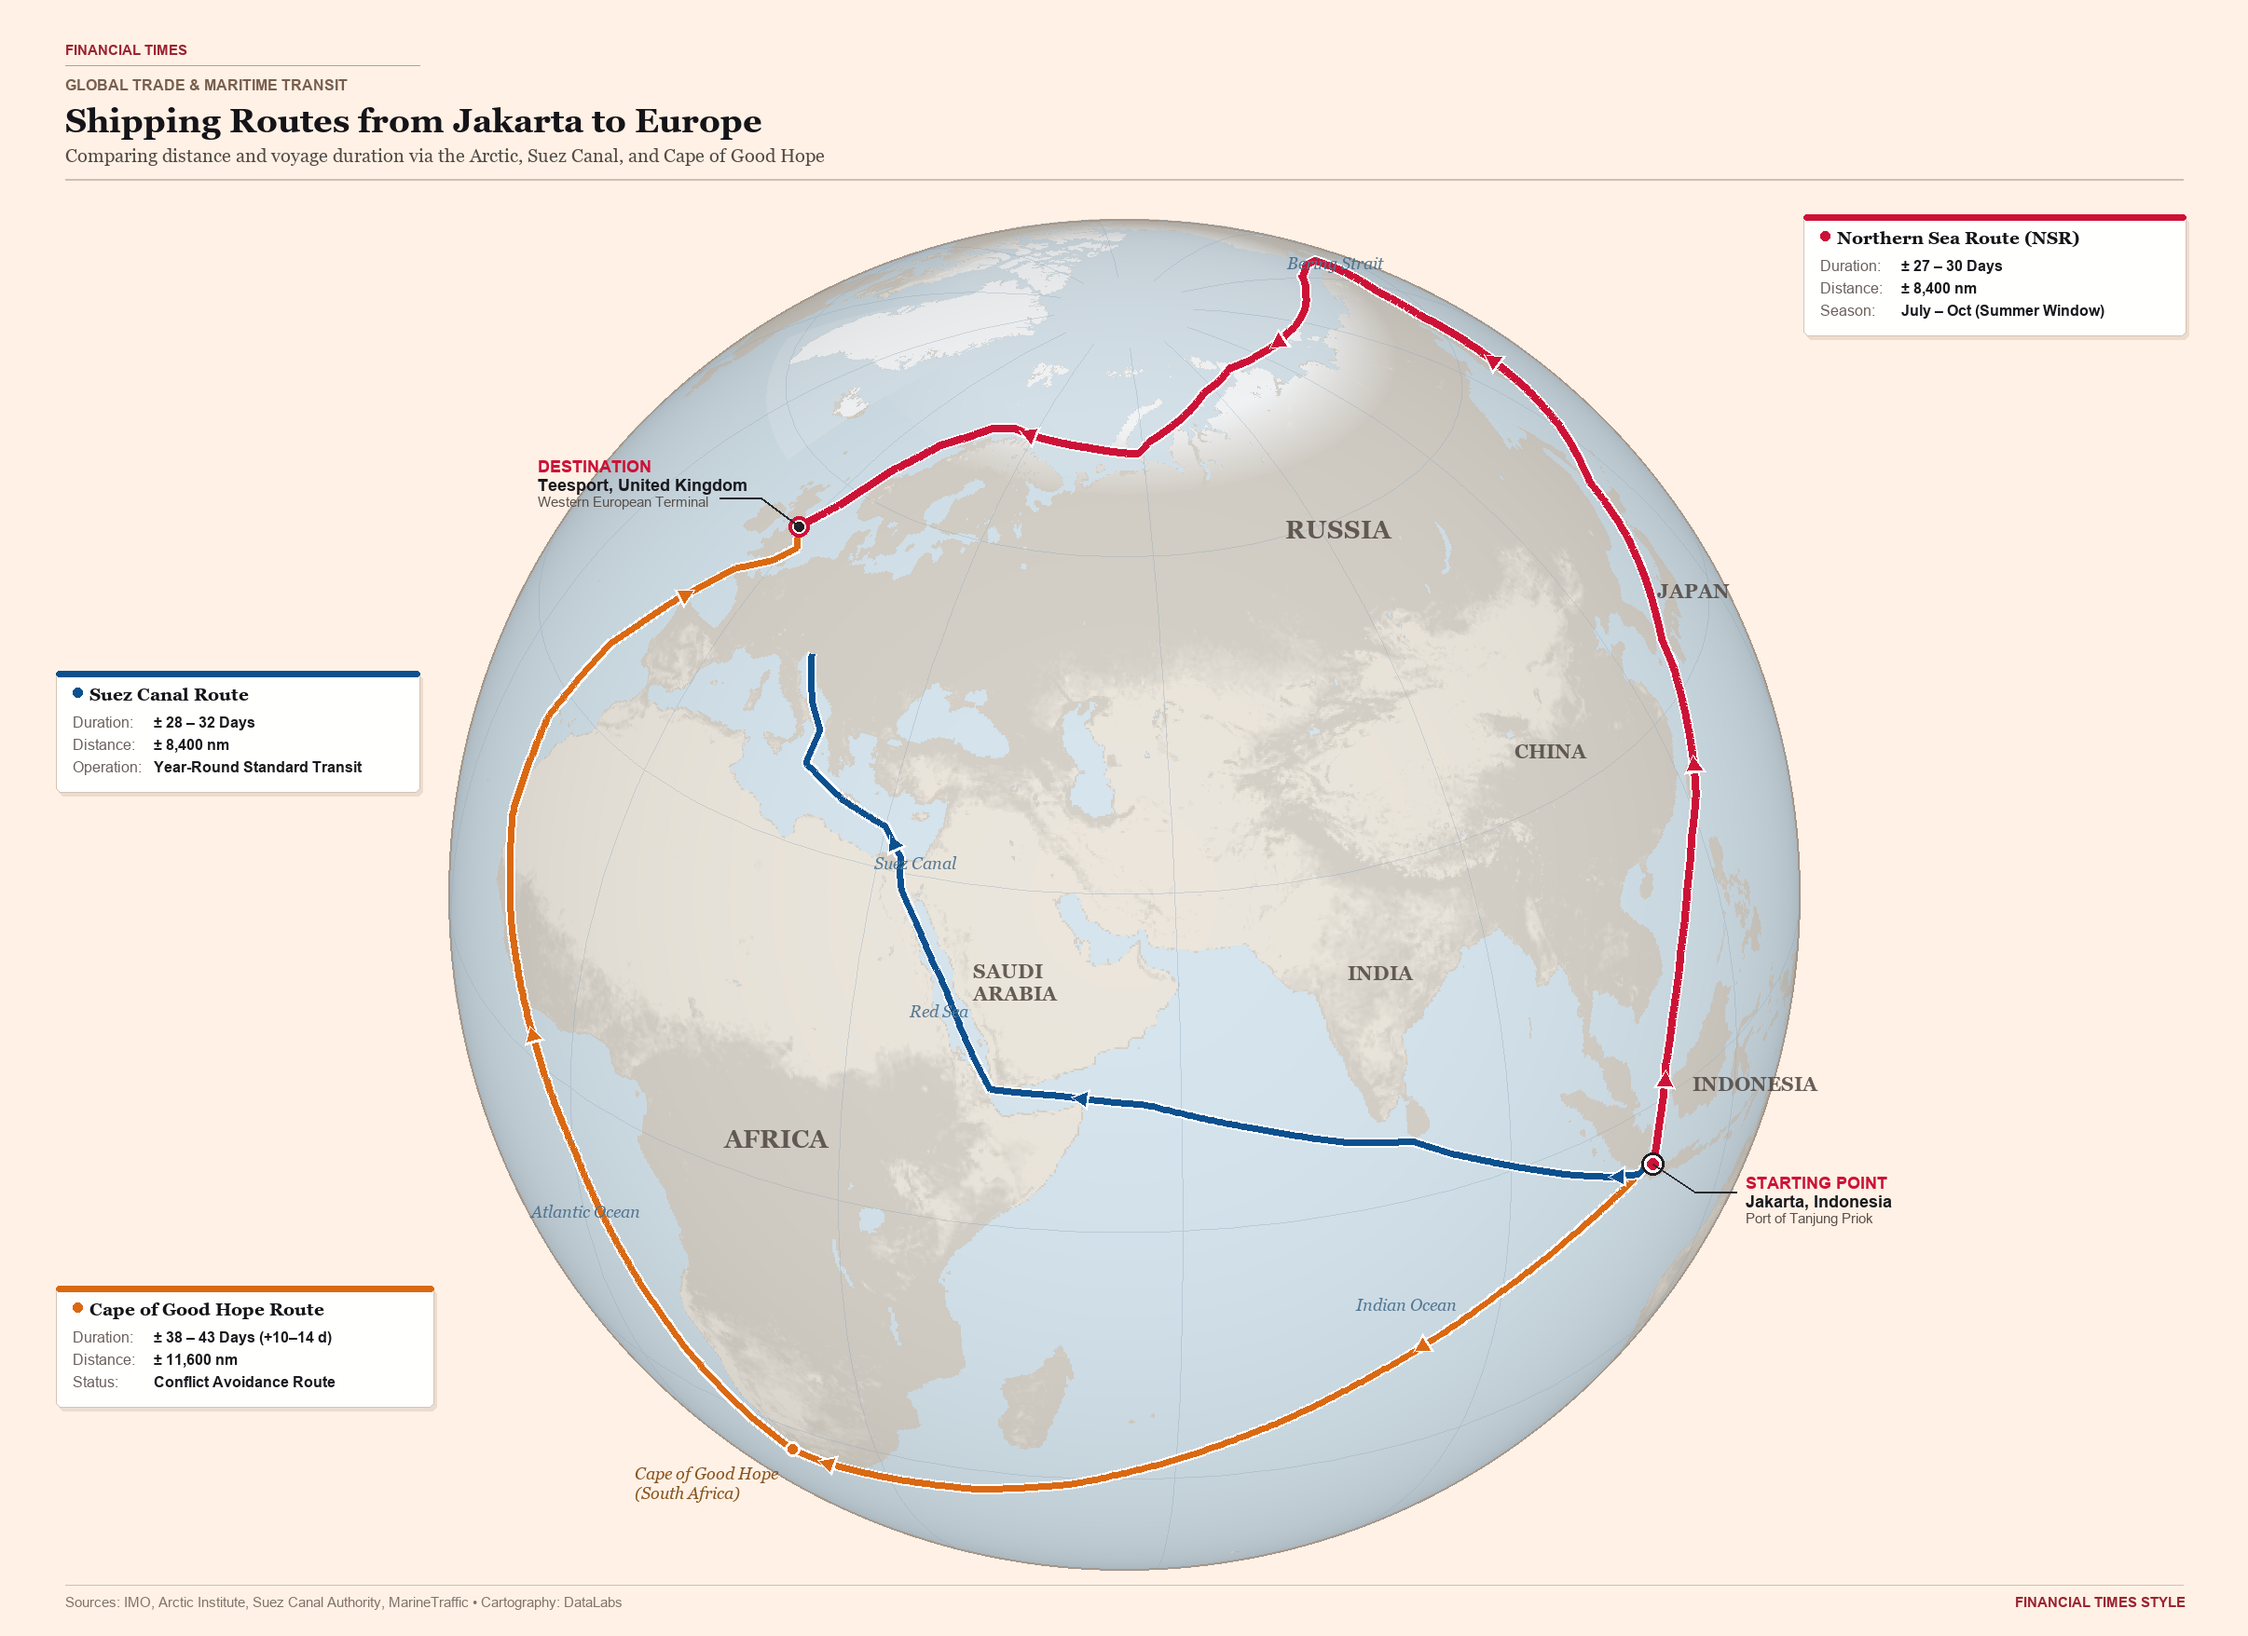
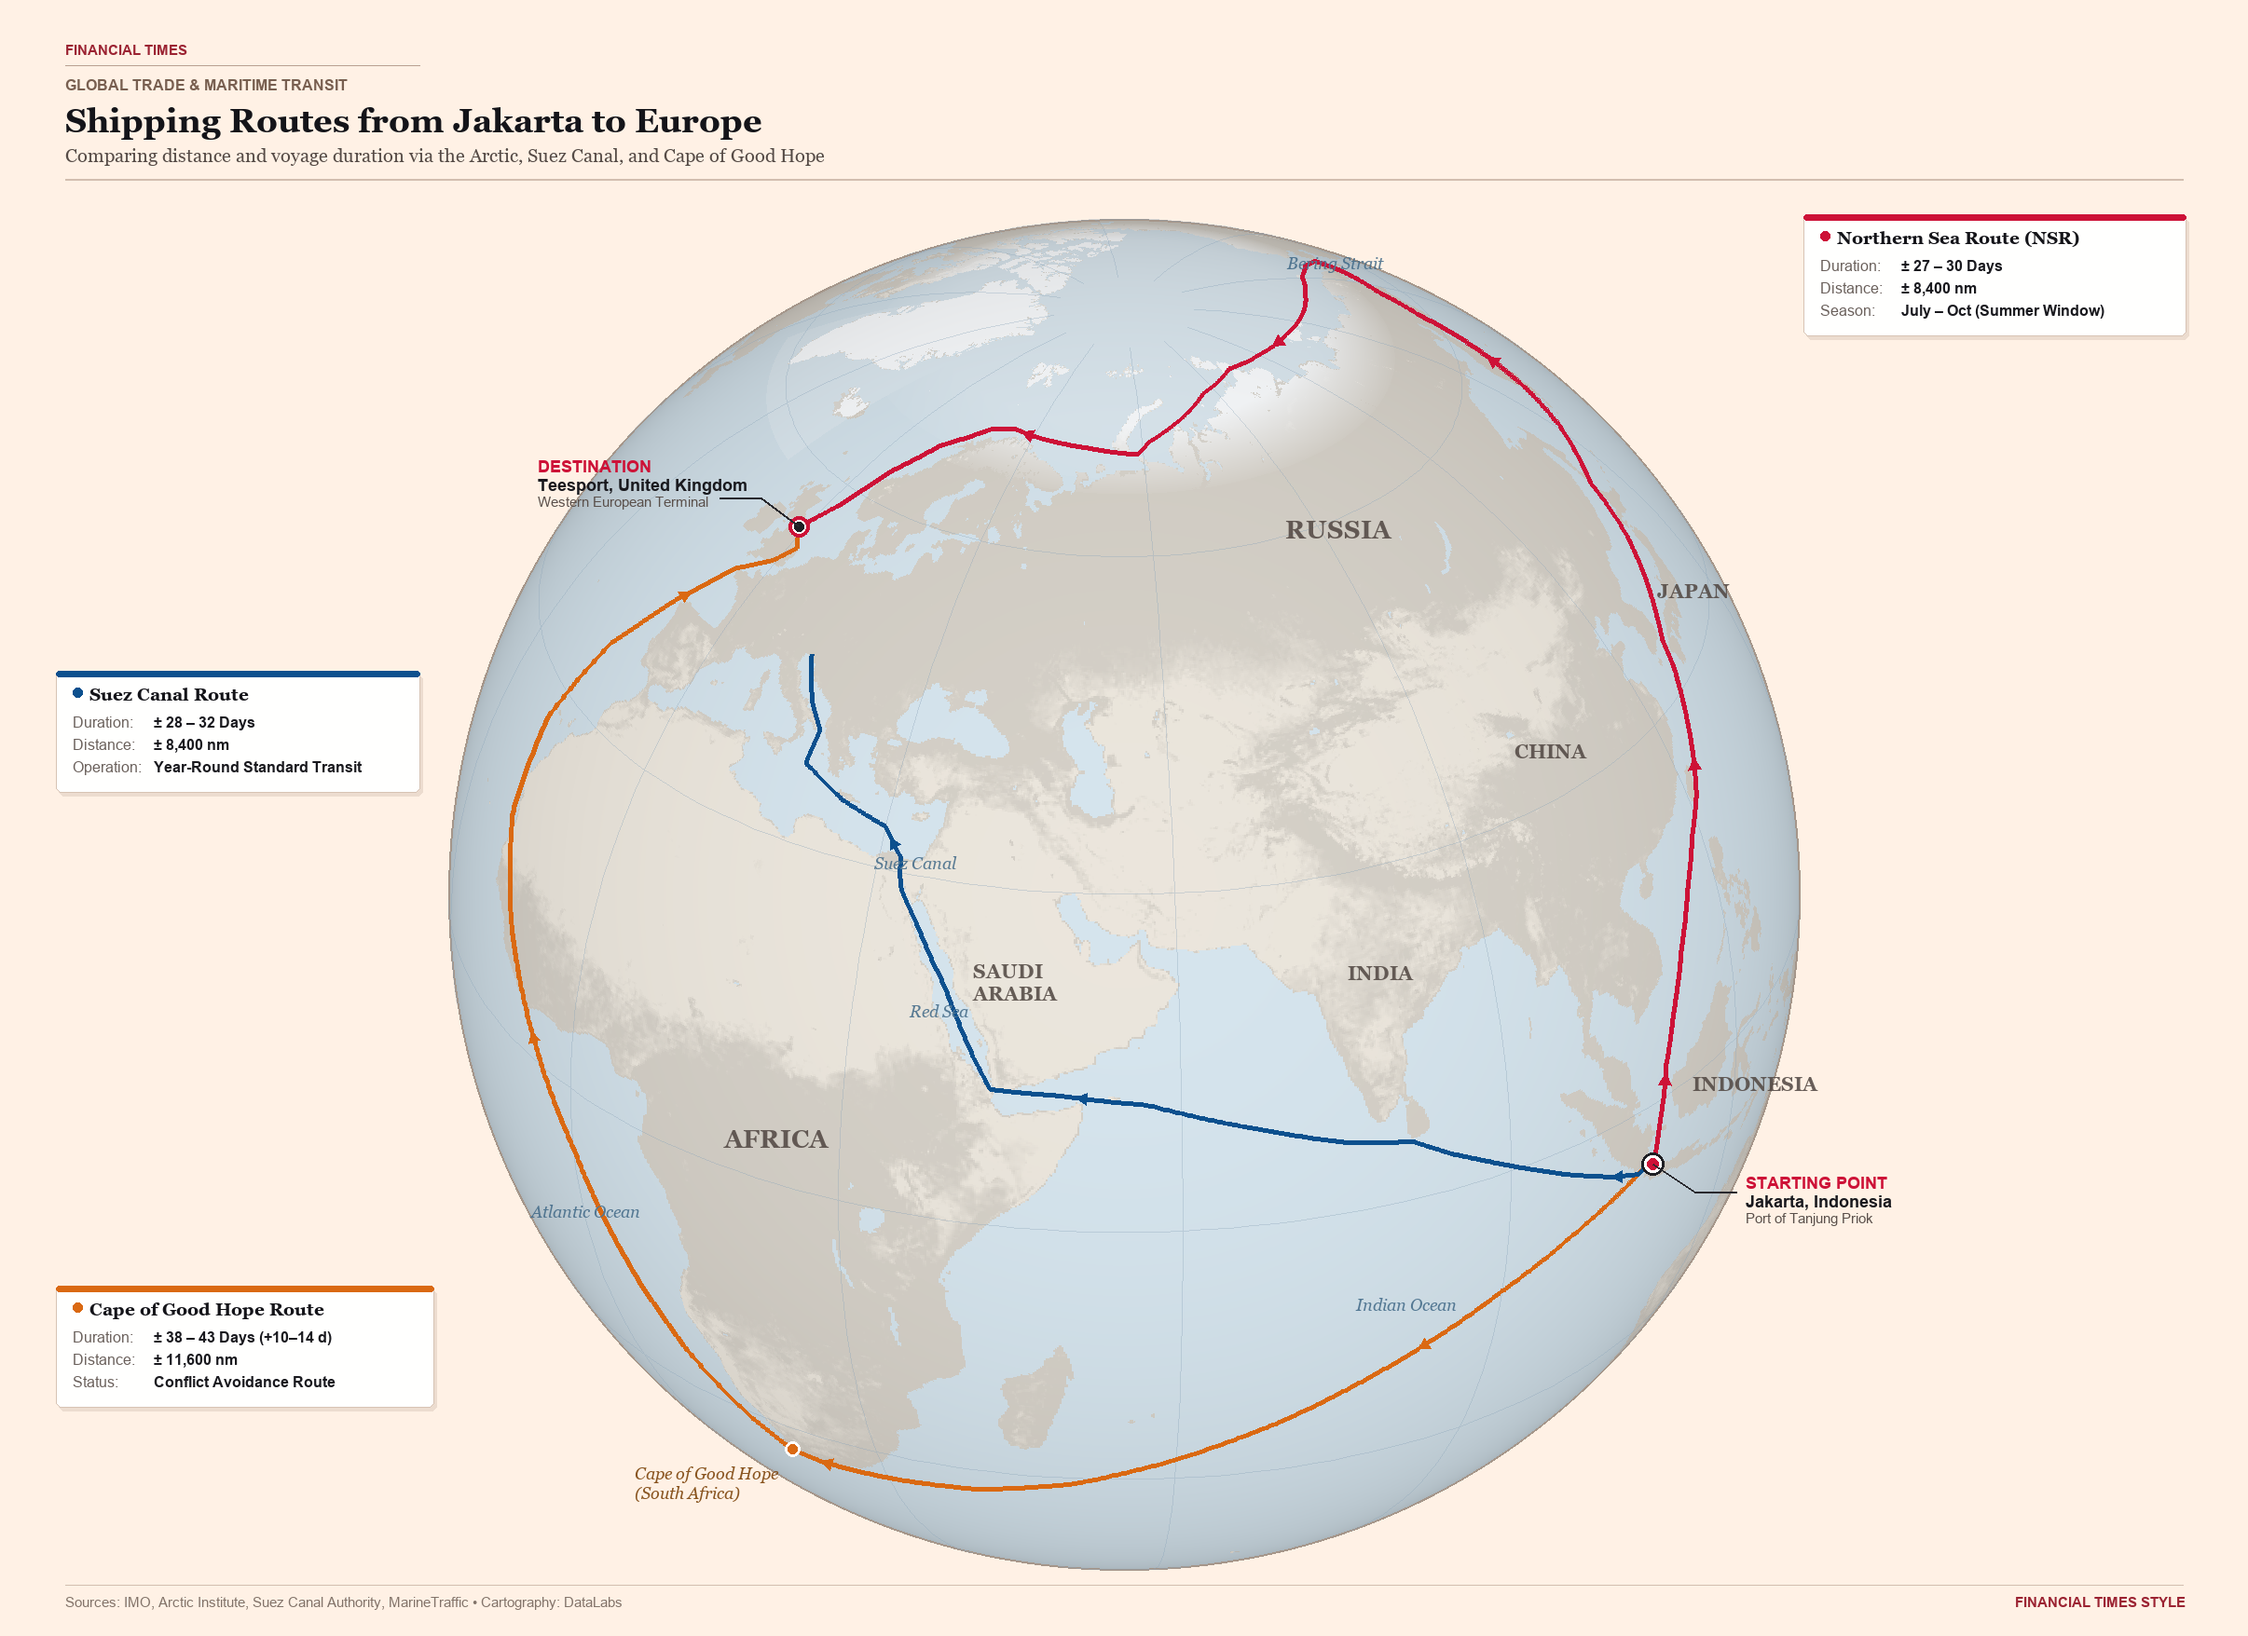
style: remove halo glow and casing/effects from route lines for pure flat vector rendering

diff --git a/build_map_ft.py b/build_map_ft.py
@@ -137,21 +137,7 @@ canvas[disk_mask] = ft_texture[disk_mask]
 
 base_img = Image.fromarray(np.clip(canvas, 0, 255).astype(np.uint8), mode="RGB")
 
-# 2B. Globe Outer Border and Subtle Shadow (FT Clean Graphic Look)
-# Create a soft drop shadow under the globe
-shadow_img = Image.new("RGBA", (WIDTH, HEIGHT), (0, 0, 0, 0))
-shadow_draw = ImageDraw.Draw(shadow_img)
-shadow_draw.ellipse([CX - RADIUS + 4, CY - RADIUS + 8, CX + RADIUS + 4, CY + RADIUS + 8],
-                    fill=(180, 160, 145, 100))
-shadow_blurred = shadow_img.filter(ImageFilter.GaussianBlur(14))
-
-# Composite shadow with background
-bg_full = Image.new("RGBA", (WIDTH, HEIGHT), (255, 241, 229, 255))
-bg_full.paste(shadow_blurred, (0, 0), shadow_blurred)
-bg_full.paste(base_img, (0, 0))
-base_img = bg_full.convert("RGB")
-
-# Crisp globe outer rim
+# 2B. Crisp globe outer rim (No shadow or halo effects)
 rim_draw = ImageDraw.Draw(base_img)
 rim_draw.ellipse([CX - RADIUS, CY - RADIUS, CX + RADIUS, CY + RADIUS],
                  outline=(165, 150, 138), width=2)
@@ -245,27 +231,19 @@ FT_RED = (205, 18, 55, 255)       # Solid FT Claret / Crimson for Northern Sea R
 FT_NAVY = (12, 80, 142, 255)      # Solid FT Deep Blue for Suez Route
 FT_AMBER = (218, 105, 18, 255)    # Solid FT Burnt Ochre/Amber for Cape Route
 
-# Draw solid routes with crisp opaque white casing underneath for maximum contrast and solidity
-def draw_cased_route(px_list, color, width=7, casing_width=11):
-    if len(px_list) < 2:
-        return
-    # Continuous opaque white casing
-    draw.line(px_list, fill=(255, 255, 255, 255), width=casing_width, joint="curve")
-    # Continuous solid core line
-    draw.line(px_list, fill=color, width=width, joint="curve")
+# Flat solid route lines (No glow, no casing, no effects)
+ROUTE_WIDTH = 5
+draw.line(cape_px, fill=FT_AMBER, width=ROUTE_WIDTH, joint="curve")
+draw.line(suez_px, fill=FT_NAVY, width=ROUTE_WIDTH, joint="curve")
+draw.line(nsr_px, fill=FT_RED, width=ROUTE_WIDTH, joint="curve")
 
-# Draw in order: Cape -> Suez -> Northern Sea Route (NSR on top)
-draw_cased_route(cape_px, FT_AMBER, width=7, casing_width=11)
-draw_cased_route(suez_px, FT_NAVY, width=7, casing_width=11)
-draw_cased_route(nsr_px, FT_RED, width=8, casing_width=12)
-
-# Directional arrows helper with solid contrast backing
-def draw_arrows(px_list, color, fractions, size=15):
+# Clean directional arrows helper without backing or outlines
+def draw_arrows(px_list, color, fractions, size=13):
     for f in fractions:
         idx = int(len(px_list) * f)
-        if idx < len(px_list) - 6:
+        if idx < len(px_list) - 5:
             p1 = px_list[idx]
-            p2 = px_list[idx + 6]
+            p2 = px_list[idx + 5]
             dx = p2[0] - p1[0]
             dy = p2[1] - p1[1]
             dist = math.hypot(dx, dy)
@@ -275,17 +253,11 @@ def draw_arrows(px_list, color, fractions, size=15):
                 tip = p2
                 left_w = (tip[0] - size * ux + size * 0.55 * vx, tip[1] - size * uy + size * 0.55 * vy)
                 right_w = (tip[0] - size * ux - size * 0.55 * vx, tip[1] - size * uy - size * 0.55 * vy)
-                
-                # Solid white backing for the arrowhead
-                b_tip = (tip[0] + 2.0 * ux, tip[1] + 2.0 * uy)
-                b_left = (tip[0] - (size + 3) * ux + (size + 3) * 0.65 * vx, tip[1] - (size + 3) * uy + (size + 3) * 0.65 * vy)
-                b_right = (tip[0] - (size + 3) * ux - (size + 3) * 0.65 * vx, tip[1] - (size + 3) * uy - (size + 3) * 0.65 * vy)
-                draw.polygon([b_tip, b_left, b_right], fill=(255, 255, 255, 255))
                 draw.polygon([tip, left_w, right_w], fill=color)
 
-draw_arrows(nsr_px, FT_RED, [0.08, 0.22, 0.48, 0.70, 0.88], size=15)
-draw_arrows(suez_px, FT_NAVY, [0.15, 0.45, 0.75], size=14)
-draw_arrows(cape_px, FT_AMBER, [0.18, 0.42, 0.65, 0.85], size=14)
+draw_arrows(nsr_px, FT_RED, [0.08, 0.22, 0.48, 0.70, 0.88], size=13)
+draw_arrows(suez_px, FT_NAVY, [0.15, 0.45, 0.75], size=12)
+draw_arrows(cape_px, FT_AMBER, [0.18, 0.42, 0.65, 0.85], size=12)
 
 # 5. Route Ports and Markers
 # Jakarta

diff --git a/build_map.py b/build_map.py
@@ -103,17 +103,10 @@ canvas_arr[disk_mask] = np.clip(blended_texture[disk_mask], 0, 255).astype(np.ui
 
 base_img = Image.fromarray(canvas_arr, mode="RGB")
 
-# Atmospheric halo
-halo_img = Image.new("RGBA", (WIDTH, HEIGHT), (0, 0, 0, 0))
-halo_draw = ImageDraw.Draw(halo_img)
-halo_draw.ellipse([CX - RADIUS - 6, CY - RADIUS - 6, CX + RADIUS + 6, CY + RADIUS + 6],
-                  outline=(65, 125, 195, 180), width=8)
-halo_blurred = halo_img.filter(ImageFilter.GaussianBlur(16))
-base_img.paste(halo_blurred, (0, 0), halo_blurred)
-
+# Crisp globe rim (No atmospheric halo effect)
 rim_draw = ImageDraw.Draw(base_img)
 rim_draw.ellipse([CX - RADIUS, CY - RADIUS, CX + RADIUS, CY + RADIUS],
-                 outline=(40, 65, 95), width=2)
+                 outline=(50, 70, 95), width=2)
 
 print("Earth base ready.")
 
@@ -180,23 +173,19 @@ NSR_COLOR = (248, 135, 45, 255)       # Orange
 SUEZ_COLOR = (75, 155, 235, 240)      # Steel Blue
 CAPE_COLOR = (245, 185, 35, 250)      # Amber / Gold
 
-# 4A. Draw Solid Route Lines
-# Cape Route
-draw.line(cape_px, fill=CAPE_COLOR, width=7, joint="curve")
+# 4A. Draw Flat Solid Route Lines (No glow, no casing, no effects)
+ROUTE_WIDTH = 5
+draw.line(cape_px, fill=CAPE_COLOR, width=ROUTE_WIDTH, joint="curve")
+draw.line(suez_px, fill=SUEZ_COLOR, width=ROUTE_WIDTH, joint="curve")
+draw.line(nsr_px, fill=NSR_COLOR, width=ROUTE_WIDTH, joint="curve")
 
-# Suez Route
-draw.line(suez_px, fill=SUEZ_COLOR, width=7, joint="curve")
-
-# Northern Sea Route (on top)
-draw.line(nsr_px, fill=NSR_COLOR, width=8, joint="curve")
-
-# Directional arrows helper with solid contrast outline
-def draw_arrows(px_list, color, fractions, size=15):
+# Directional arrows helper - Clean flat chevrons without backing or outlines
+def draw_arrows(px_list, color, fractions, size=13):
     for f in fractions:
         idx = int(len(px_list) * f)
-        if idx < len(px_list) - 6:
+        if idx < len(px_list) - 5:
             p1 = px_list[idx]
-            p2 = px_list[idx + 6]
+            p2 = px_list[idx + 5]
             dx = p2[0] - p1[0]
             dy = p2[1] - p1[1]
             dist = math.hypot(dx, dy)
@@ -206,17 +195,11 @@ def draw_arrows(px_list, color, fractions, size=15):
                 tip = p2
                 left_w = (tip[0] - size * ux + size * 0.55 * vx, tip[1] - size * uy + size * 0.55 * vy)
                 right_w = (tip[0] - size * ux - size * 0.55 * vx, tip[1] - size * uy - size * 0.55 * vy)
-                
-                # Solid dark backing outline for high visibility in dark mode
-                b_tip = (tip[0] + 2.0 * ux, tip[1] + 2.0 * uy)
-                b_left = (tip[0] - (size + 3) * ux + (size + 3) * 0.65 * vx, tip[1] - (size + 3) * uy + (size + 3) * 0.65 * vy)
-                b_right = (tip[0] - (size + 3) * ux - (size + 3) * 0.65 * vx, tip[1] - (size + 3) * uy - (size + 3) * 0.65 * vy)
-                draw.polygon([b_tip, b_left, b_right], fill=(0, 0, 0, 240))
                 draw.polygon([tip, left_w, right_w], fill=color)
 
-draw_arrows(nsr_px, NSR_COLOR, [0.08, 0.22, 0.48, 0.70, 0.88], size=15)
-draw_arrows(suez_px, SUEZ_COLOR, [0.15, 0.45, 0.75], size=14)
-draw_arrows(cape_px, CAPE_COLOR, [0.18, 0.42, 0.65, 0.85], size=14)
+draw_arrows(nsr_px, NSR_COLOR, [0.08, 0.22, 0.48, 0.70, 0.88], size=13)
+draw_arrows(suez_px, SUEZ_COLOR, [0.15, 0.45, 0.75], size=12)
+draw_arrows(cape_px, CAPE_COLOR, [0.18, 0.42, 0.65, 0.85], size=12)
 
 # 5. Route Ports and Markers
 # Jakarta
